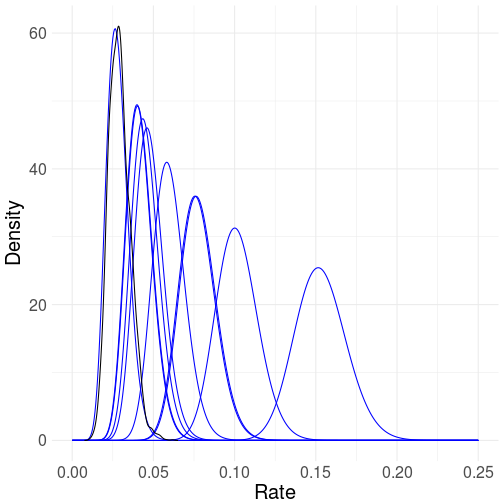
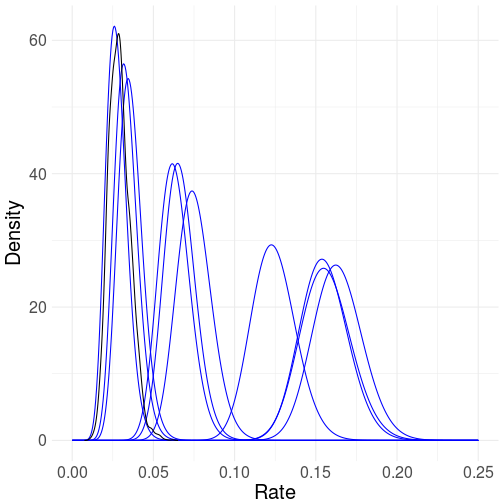
fixed formula for beta parameter in gamma, made note in actual poist

diff --git a/_site/Prius2/index.html b/_site/Prius2/index.html
@@ -9,10 +9,10 @@
     <meta name='viewport' content='width=device-width, initial-scale=1.0, maximum-scale=1.0'>
 
     
-    <meta name="description" content="The positive response from social media made me want to do a follow-up post (thanks!), I’m gonna try to keep it short. If you haven’t read the previous post, you can do so here.
+    <meta name="description" content="EDIT: If previously showed a formula for getting the updated  value of $\beta$ in a gamma distribution using conjugacy. After some poking around, I’ve changed the formula to match what is on the Wikipedia page (linked below). Seems to be working.
 
 " />
-    <meta property="og:description" content="The positive response from social media made me want to do a follow-up post (thanks!), I’m gonna try to keep it short. If you haven’t read the previous post, you can do so here.
+    <meta property="og:description" content="EDIT: If previously showed a formula for getting the updated  value of $\beta$ in a gamma distribution using conjugacy. After some poking around, I’ve changed the formula to match what is on the Wikipedia page (linked below). Seems to be working.
 
 " />
     
@@ -60,7 +60,9 @@
   <h1>Prius Spotting II: Rise of the Conjugates (Rated R)</h1>
 
   <div class="entry">
-    <p>The positive response from social media made me want to do a follow-up post (thanks!), I’m gonna try to keep it short. If you haven’t read the previous post, you can do so <a href="https://silastittes.github.io/Prius/">here</a>.</p>
+    <p>EDIT: If previously showed a formula for getting the updated  value of $\beta$ in a gamma distribution using conjugacy. After some poking around, I’ve changed the formula to match what is on the Wikipedia page (linked below). Seems to be working.</p>
+
+<p>The positive response from social media made me want to do a follow-up post (thanks!), I’m gonna try to keep it short. If you haven’t read the previous post, you can do so <a href="https://silastittes.github.io/Prius/">here</a>.</p>
 
 <p>After a little reading and staring at tables, I realized getting the exact solution for the posterior of the exponential rate parameter is pretty straightforward. There is certainly some value in comparing the exact solution and approximate one we arrived at in the last post using HMCMC sampling in Stan (nothing saves CPU time like math).</p>
 
@@ -70,11 +72,9 @@
 
 <script type="math/tex; mode=display">\alpha' = \alpha + n</script>
 
-<script type="math/tex; mode=display">\beta' = \frac{1 + \beta \sum_{i=1}^{n} y_i}{\beta}</script>
+<script type="math/tex; mode=display">\beta' = \beta + \sum_{i=1}^{n} y_i</script>
 
 <p>where <script type="math/tex">y_i</script> are the observations and <script type="math/tex">n</script> is the number of observations.</p>
-
-<p>Side note, this is not what is listed for <script type="math/tex">\beta'</script> on the Wikipedia page, I took the equation from this <a href="https://www.johndcook.com/CompendiumOfConjugatePriors.pdf">page</a>.</p>
 
 <p>Okay, with conjugacy in hand, we can plug in some data and characterize the gamma distributed posterior of the exponential rate parameter. To make my life easier, I’m gonna keep things in terms of the rate instead of the scale (for both gamma and exponential).</p>
 
@@ -84,23 +84,16 @@
   </span><span class="n">dgamma</span><span class="p">(</span><span class="w">
     </span><span class="n">x</span><span class="w"> </span><span class="o">=</span><span class="w"> </span><span class="n">xseq</span><span class="p">,</span><span class="w">
     </span><span class="n">shape</span><span class="w"> </span><span class="o">=</span><span class="w"> </span><span class="n">shape</span><span class="w"> </span><span class="o">+</span><span class="w"> </span><span class="nf">length</span><span class="p">(</span><span class="n">y</span><span class="p">),</span><span class="w">
-    </span><span class="n">rate</span><span class="w"> </span><span class="o">=</span><span class="w"> </span><span class="p">(</span><span class="m">1</span><span class="w"> </span><span class="o">+</span><span class="w"> </span><span class="n">rate</span><span class="o">*</span><span class="nf">sum</span><span class="p">(</span><span class="n">y</span><span class="p">))</span><span class="w"> </span><span class="o">/</span><span class="w"> </span><span class="n">rate</span><span class="w">
+    </span><span class="n">rate</span><span class="w"> </span><span class="o">=</span><span class="w"> </span><span class="n">rate</span><span class="w"> </span><span class="o">+</span><span class="w"> </span><span class="nf">sum</span><span class="p">(</span><span class="n">y</span><span class="p">)</span><span class="w">
     </span><span class="p">)</span><span class="w">
 </span><span class="p">}</span><span class="w">
-
-</span><span class="n">xseq</span><span class="w"> </span><span class="o">&lt;-</span><span class="w"> </span><span class="n">seq</span><span class="p">(</span><span class="m">0</span><span class="p">,</span><span class="w"> </span><span class="m">1</span><span class="p">,</span><span class="w"> </span><span class="n">length.out</span><span class="w"> </span><span class="o">=</span><span class="w"> </span><span class="m">1000</span><span class="p">)</span><span class="w">
-</span><span class="n">post_y</span><span class="w"> </span><span class="o">&lt;-</span><span class="w"> </span><span class="n">exp_exact</span><span class="p">(</span><span class="w">
-  </span><span class="n">x</span><span class="w"> </span><span class="o">=</span><span class="w"> </span><span class="n">xseq</span><span class="p">,</span><span class="w"> 
-  </span><span class="n">y</span><span class="w"> </span><span class="o">=</span><span class="w"> </span><span class="n">wt_times</span><span class="o">$</span><span class="n">wait</span><span class="p">,</span><span class="w"> 
-  </span><span class="n">shape</span><span class="w"> </span><span class="o">=</span><span class="w"> </span><span class="m">1</span><span class="p">,</span><span class="w">
-  </span><span class="n">rate</span><span class="w"> </span><span class="o">=</span><span class="w"> </span><span class="m">1</span><span class="w">
-</span><span class="p">)</span><span class="w">
 </span></code></pre>
 </div>
 
 <p>Let’s visually compare the approximate and exact posteriors:</p>
 
-<div class="language-r highlighter-rouge"><pre class="highlight"><code><span class="n">post_y</span><span class="w"> </span><span class="o">&lt;-</span><span class="w"> </span><span class="n">exp_exact</span><span class="p">(</span><span class="w">
+<div class="language-r highlighter-rouge"><pre class="highlight"><code><span class="n">xseq</span><span class="w"> </span><span class="o">&lt;-</span><span class="w"> </span><span class="n">seq</span><span class="p">(</span><span class="m">0</span><span class="p">,</span><span class="w"> </span><span class="m">1</span><span class="p">,</span><span class="w"> </span><span class="n">length.out</span><span class="w"> </span><span class="o">=</span><span class="w"> </span><span class="m">1000</span><span class="p">)</span><span class="w">
+</span><span class="n">post_y</span><span class="w"> </span><span class="o">&lt;-</span><span class="w"> </span><span class="n">exp_exact</span><span class="p">(</span><span class="w">
   </span><span class="n">x</span><span class="w"> </span><span class="o">=</span><span class="w"> </span><span class="n">xseq</span><span class="p">,</span><span class="w"> 
   </span><span class="n">y</span><span class="w"> </span><span class="o">=</span><span class="w"> </span><span class="n">wt_times</span><span class="o">$</span><span class="n">wait</span><span class="p">,</span><span class="w"> </span><span class="c1">#&lt;-- hey there's the data!
 </span><span class="w">  </span><span class="n">shape</span><span class="w"> </span><span class="o">=</span><span class="w"> </span><span class="m">1</span><span class="p">,</span><span class="w">

diff --git a/_site/index.html b/_site/index.html
@@ -54,7 +54,7 @@
       <h1><a href="/Prius2/">Prius Spotting II: Rise of the Conjugates (Rated R)</a></h1>
 
       <div class="entry">
-        <p>The positive response from social media made me want to do a follow-up post (thanks!), I’m gonna try to keep it short. If you haven’t read the previous post, you can do so <a href="https://silastittes.github.io/Prius/">here</a>.</p>
+        <p>EDIT: If previously showed a formula for getting the updated  value of $\beta$ in a gamma distribution using conjugacy. After some poking around, I’ve changed the formula to match what is on the Wikipedia page (linked below). Seems to be working.</p>
 
 
       </div>

diff --git a/_posts/2017-09-03-Prius2.md b/_posts/2017-09-03-Prius2.md
@@ -6,6 +6,8 @@ title: "Prius Spotting II: Rise of the Conjugates (Rated R)"
 
 
 
+EDIT: If previously showed a formula for getting the updated  value of $\beta$ in a gamma distribution using conjugacy. After some poking around, I've changed the formula to match what is on the Wikipedia page (linked below). Seems to be working.
+
 The positive response from social media made me want to do a follow-up post (thanks!), I'm gonna try to keep it short. If you haven't read the previous post, you can do so [here](https://silastittes.github.io/Prius/).
 
 After a little reading and staring at tables, I realized getting the exact solution for the posterior of the exponential rate parameter is pretty straightforward. There is certainly some value in comparing the exact solution and approximate one we arrived at in the last post using HMCMC sampling in Stan (nothing saves CPU time like math).
@@ -17,11 +19,9 @@ The conjugate prior for the exponential distribution is the gamma distribution, 
 $$\alpha' = \alpha + n$$
 
 
-$$\beta' = \frac{1 + \beta \sum_{i=1}^{n} y_i}{\beta}$$
+$$\beta' = \beta + \sum_{i=1}^{n} y_i$$
 
 where $$y_i$$ are the observations and $$n$$ is the number of observations.
-
-Side note, this is not what is listed for $$\beta'$$ on the Wikipedia page, I took the equation from this [page](https://www.johndcook.com/CompendiumOfConjugatePriors.pdf).
 
 Okay, with conjugacy in hand, we can plug in some data and characterize the gamma distributed posterior of the exponential rate parameter. To make my life easier, I'm gonna keep things in terms of the rate instead of the scale (for both gamma and exponential).
 
@@ -32,23 +32,16 @@ exp_exact <- function(x, y, shape, rate){
   dgamma(
     x = xseq,
     shape = shape + length(y),
-    rate = (1 + rate*sum(y)) / rate
+    rate = rate + sum(y)
     )
 }
-
-xseq <- seq(0, 1, length.out = 1000)
-post_y <- exp_exact(
-  x = xseq, 
-  y = wt_times$wait, 
-  shape = 1,
-  rate = 1
-)
 ```
 
 
 Let's visually compare the approximate and exact posteriors:
 
 ```r
+xseq <- seq(0, 1, length.out = 1000)
 post_y <- exp_exact(
   x = xseq, 
   y = wt_times$wait, #<-- hey there's the data!
